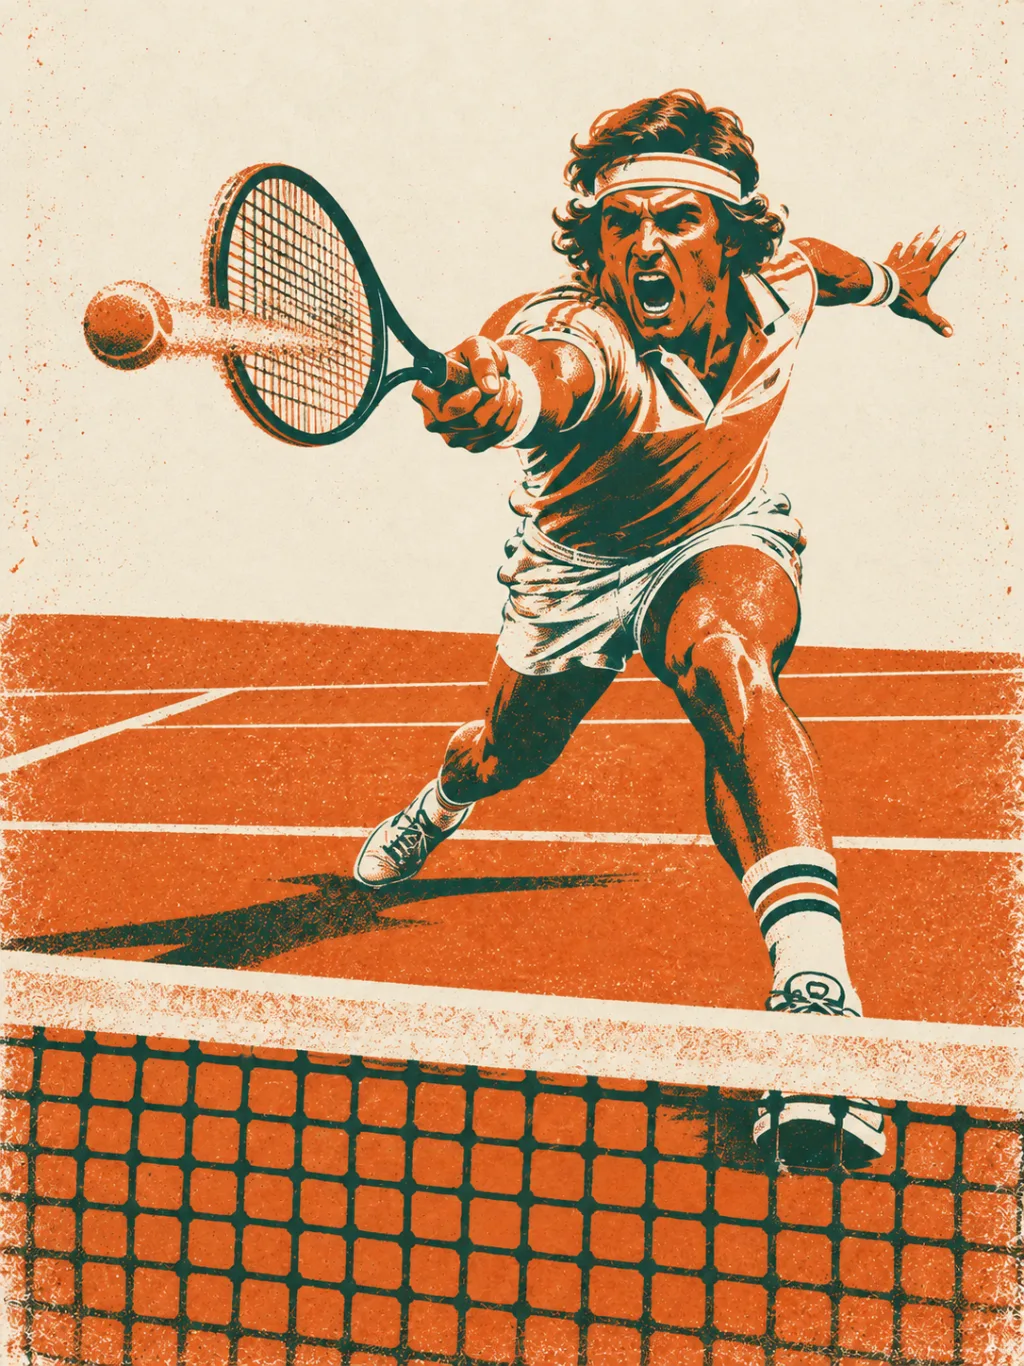
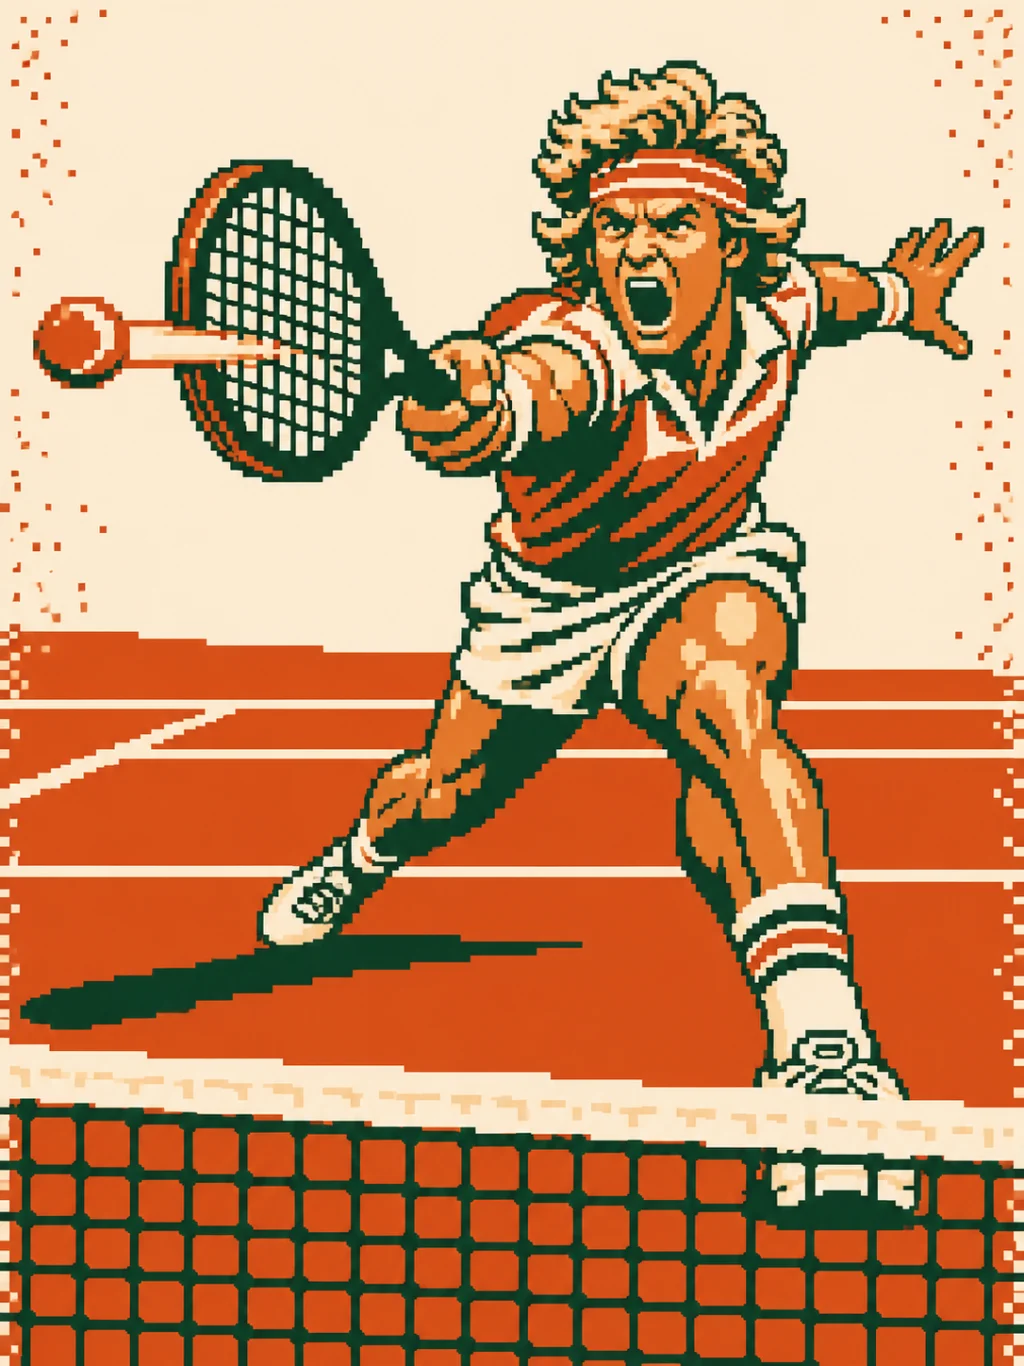
art: 16 张插图改为 16-bit 像素风，按原型球员重绘
- 全部基于代表球员的强识别特征（纳达尔/费德勒/德约/小威/高芙/大坂…）
- webp 1024x1536，单张 40-200KB
- 结果页主图改 2:3，与插图比例一致不裁切

diff --git a/src/screens/Result.tsx b/src/screens/Result.tsx
@@ -121,7 +121,7 @@ export function Result({
       {/* hero */}
       <section className="animate-scale-in pt-5">
         <div className="border-[1.5px] border-ink">
-          <TypeArt code={type.code} className="block aspect-[4/5] w-full object-cover" />
+          <TypeArt code={type.code} className="block aspect-[2/3] w-full object-cover" />
         </div>
 
         <div className="mt-5 flex items-start justify-between gap-3">
